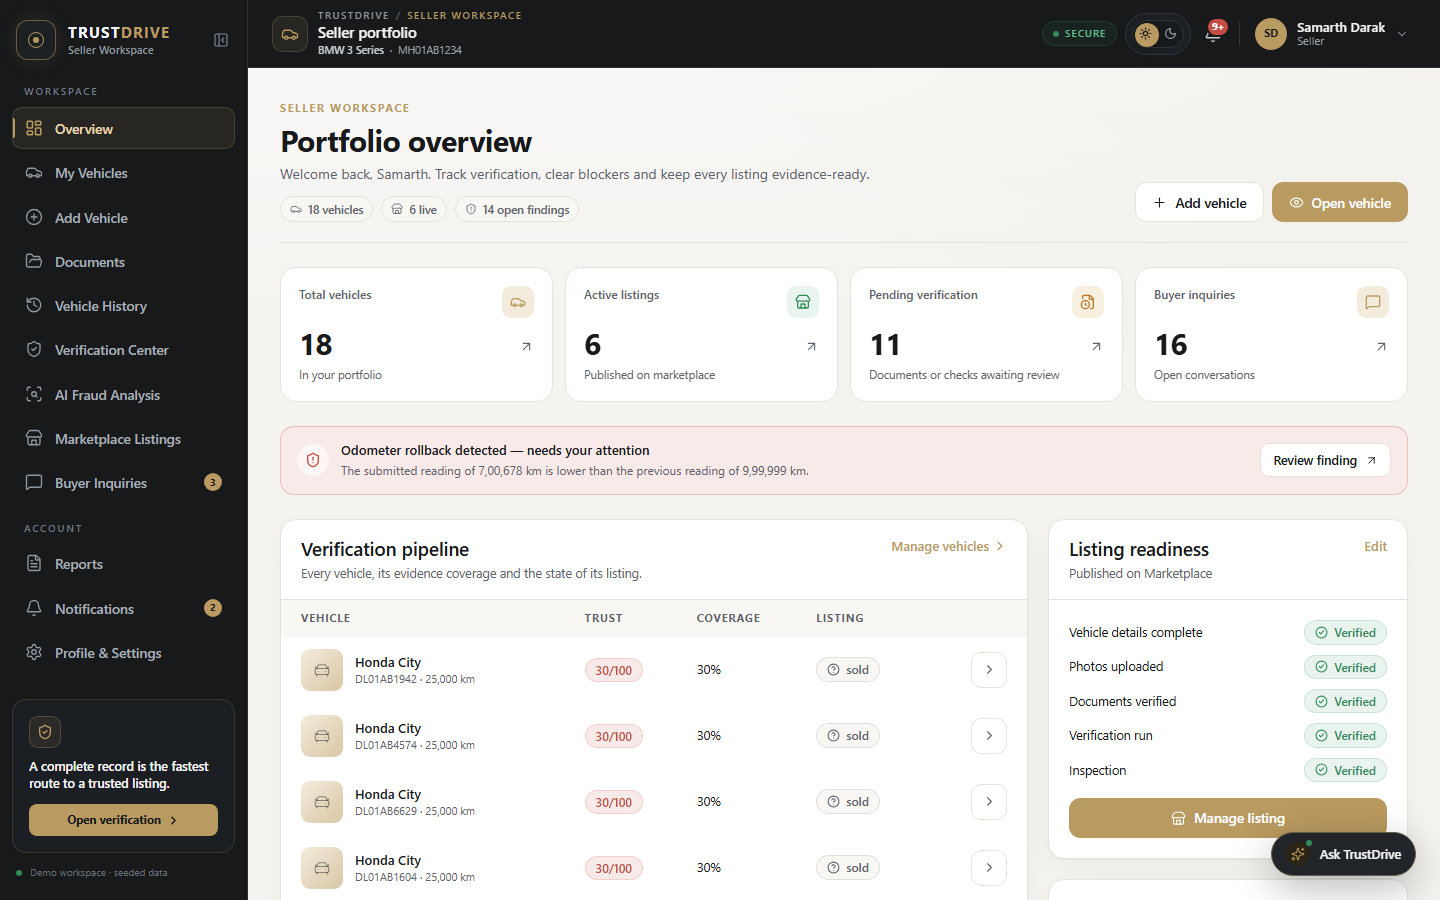
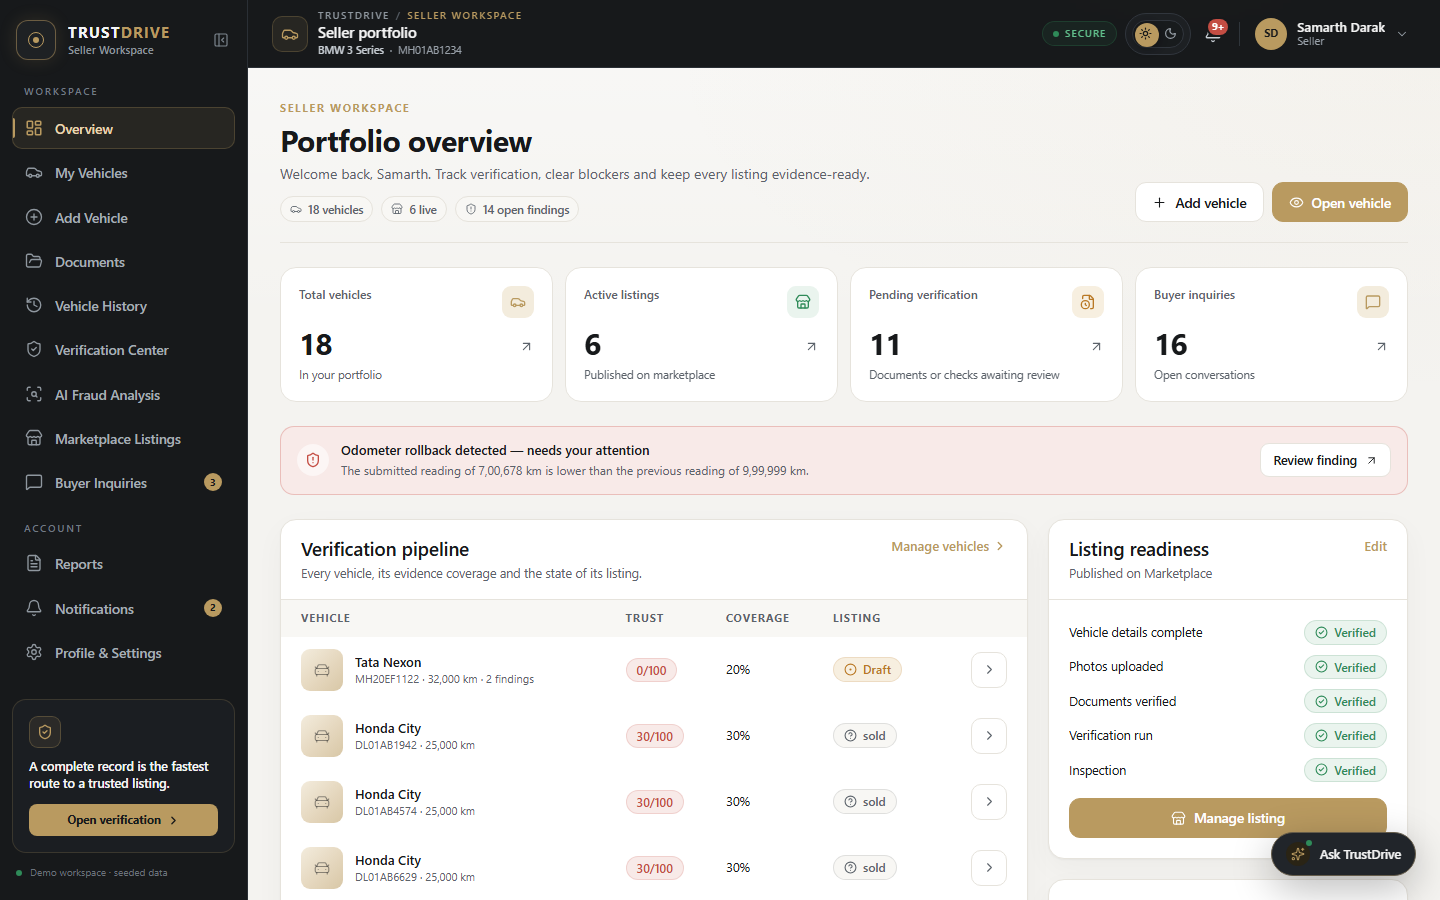
Add vehicle list and save API routes; update vehicle, compare, saved routes and DB layer

diff --git a/frontend/lib/server/db.ts b/frontend/lib/server/db.ts
@@ -1354,7 +1354,7 @@ export function createUser(u: {
 }
 export function updateUser(id: string, fields: Partial<UserRow>) {
   const allowed = ["name", "phone", "city", "seller_type", "business_name", "kyc_status", "preferences", "avatar_url", "email_verified", "twofa_enabled", "kyc_doc_key", "last_login_at"];
-  const entries = Object.entries(fields).filter(([k]) => allowed.includes(k));
+  const entries = Object.entries(fields).filter(([k, v]) => allowed.includes(k) && v !== undefined);
   if (!entries.length) return;
   const sets = entries.map(([k]) => `${k} = ?`).join(", ");
   run(`UPDATE users SET ${sets} WHERE id = ?`, ...entries.map(([, v]) => v as string | number | null), id);
@@ -1397,7 +1397,7 @@ export function updateVehicle(id: string, fields: Partial<VehicleRow>) {
     "ownership_count", "location", "km_claimed", "last_verified_km", "asking_price", "status", "base_value",
     "condition_score", "description", "condition",
   ];
-  const entries = Object.entries(fields).filter(([k]) => allowed.includes(k));
+  const entries = Object.entries(fields).filter(([k, v]) => allowed.includes(k) && v !== undefined);
   if (!entries.length) return;
   const sets = entries.map(([k]) => `${k} = ?`).join(", ");
   run(`UPDATE vehicles SET ${sets}, updated_at = ? WHERE id = ?`, ...entries.map(([, v]) => v as string | number | null), new Date().toISOString(), id);
@@ -1434,7 +1434,7 @@ export function createDocument(d: DocumentRow) {
 }
 export function updateDocument(id: string, fields: Partial<DocumentRow>) {
   const allowed = ["status", "status_reason", "consent", "version", "supersedes_id", "extracted", "verified_at", "file_name"];
-  const entries = Object.entries(fields).filter(([k]) => allowed.includes(k));
+  const entries = Object.entries(fields).filter(([k, v]) => allowed.includes(k) && v !== undefined);
   if (!entries.length) return;
   const sets = entries.map(([k]) => `${k} = ?`).join(", ");
   run(`UPDATE documents SET ${sets} WHERE id = ?`, ...entries.map(([, v]) => v as string | number | null), id);
@@ -1461,7 +1461,7 @@ export function createFinding(f: FindingRow) {
 }
 export function updateFinding(id: string, fields: Partial<FindingRow>) {
   const allowed = ["status", "explanation", "recommendation"];
-  const entries = Object.entries(fields).filter(([k]) => allowed.includes(k));
+  const entries = Object.entries(fields).filter(([k, v]) => allowed.includes(k) && v !== undefined);
   if (!entries.length) return;
   const sets = entries.map(([k]) => `${k} = ?`).join(", ");
   run(`UPDATE findings SET ${sets} WHERE id = ?`, ...entries.map(([, v]) => v as string | null), id);
@@ -1505,7 +1505,7 @@ export function createListing(l: ListingRow) {
 }
 export function updateListing(id: string, fields: Partial<ListingRow>) {
   const allowed = ["status", "headline", "description", "condition", "location", "views", "saves", "inquiries", "cover_image", "published_at"];
-  const entries = Object.entries(fields).filter(([k]) => allowed.includes(k));
+  const entries = Object.entries(fields).filter(([k, v]) => allowed.includes(k) && v !== undefined);
   if (!entries.length) return;
   const sets = entries.map(([k]) => `${k} = ?`).join(", ");
   run(`UPDATE listings SET ${sets}, updated_at = ? WHERE id = ?`, ...entries.map(([, v]) => v as string | number | null), new Date().toISOString(), id);
@@ -1559,7 +1559,7 @@ export function createInquiry(q: InquiryRow) {
 }
 export function updateInquiry(id: string, fields: Partial<InquiryRow>) {
   const allowed = ["status", "last_activity_at", "message"];
-  const entries = Object.entries(fields).filter(([k]) => allowed.includes(k));
+  const entries = Object.entries(fields).filter(([k, v]) => allowed.includes(k) && v !== undefined);
   if (!entries.length) return;
   const sets = entries.map(([k]) => `${k} = ?`).join(", ");
   run(`UPDATE inquiries SET ${sets} WHERE id = ?`, ...entries.map(([, v]) => v as string | null), id);
@@ -1728,7 +1728,7 @@ export function createReport(r: ReportRow) {
 }
 export function updateReport(id: string, fields: Partial<ReportRow>) {
   const allowed = ["status", "file_key", "generated_at", "pdf_hash", "snapshot", "version"];
-  const entries = Object.entries(fields).filter(([k]) => allowed.includes(k));
+  const entries = Object.entries(fields).filter(([k, v]) => allowed.includes(k) && v !== undefined);
   if (!entries.length) return;
   const sets = entries.map(([k]) => `${k} = ?`).join(", ");
   run(`UPDATE reports SET ${sets} WHERE id = ?`, ...entries.map(([, v]) => v as string | number | null), id);
@@ -1751,7 +1751,7 @@ export function createDispute(d: DisputeRow) {
 }
 export function updateDispute(id: string, fields: Partial<DisputeRow>) {
   const allowed = ["status", "reviewed_by", "review_note"];
-  const entries = Object.entries(fields).filter(([k]) => allowed.includes(k));
+  const entries = Object.entries(fields).filter(([k, v]) => allowed.includes(k) && v !== undefined);
   if (!entries.length) return;
   const sets = entries.map(([k]) => `${k} = ?`).join(", ");
   run(`UPDATE disputes SET ${sets} WHERE id = ?`, ...entries.map(([, v]) => v as string | null), id);

diff --git a/frontend/app/api/v1/vehicles/route.ts b/frontend/app/api/v1/vehicles/route.ts
@@ -1,0 +1,86 @@
+import { createVehicle, getAllVehicles, getVehiclesByOwner, type VehicleRow } from "@/lib/server/db";
+import { created, fail, ok, requireRole } from "@/lib/server/http";
+
+export const runtime = "nodejs";
+export const dynamic = "force-dynamic";
+
+/** GET /api/v1/vehicles — list vehicles for authenticated seller or all for admin. */
+export async function GET(req: Request) {
+  const guard = requireRole(req, "seller", "admin");
+  if (!guard.ok) return guard.response;
+  if (guard.user.role === "admin") {
+    return ok({ items: getAllVehicles() });
+  }
+  return ok({ items: getVehiclesByOwner(guard.user.sub) });
+}
+
+/** POST /api/v1/vehicles — register a new vehicle for seller. */
+export async function POST(req: Request) {
+  const guard = requireRole(req, "seller", "admin");
+  if (!guard.ok) return guard.response;
+
+  const body = (await req.json().catch(() => null)) as {
+    regNo?: string;
+    vin?: string;
+    make?: string;
+    model?: string;
+    variant?: string;
+    year?: number;
+    fuel?: string;
+    transmission?: string;
+    color?: string;
+    category?: string;
+    askingPrice?: number;
+    mileage?: number;
+    location?: string;
+    description?: string;
+  } | null;
+
+  if (!body?.regNo || !body?.vin || !body?.make || !body?.model || !body?.year) {
+    return fail(400, "VALIDATION_FAILED", "regNo, vin, make, model and year are required.");
+  }
+
+  const now = new Date().toISOString();
+  const id = `v-${Date.now()}`;
+  const trustdriveId = `TD-${body.year}-${Math.floor(1000 + Math.random() * 9000)}`;
+  const qrToken = `qr-${id}`;
+
+  const row: VehicleRow = {
+    id,
+    owner_id: guard.user.sub,
+    make: body.make,
+    model: body.model,
+    variant: body.variant || "Standard",
+    year: Number(body.year),
+    reg_no: body.regNo.toUpperCase(),
+    vin: body.vin.toUpperCase(),
+    fuel: body.fuel || "Petrol",
+    transmission: body.transmission || "Manual",
+    category: body.category || "Sedan",
+    color: body.color || "Black",
+    ownership_count: 1,
+    location: body.location || "Mumbai, Maharashtra",
+    km_claimed: Number(body.mileage) || 0,
+    last_verified_km: Number(body.mileage) || 0,
+    asking_price: Number(body.askingPrice) || 0,
+    status: "draft",
+    base_value: Number(body.askingPrice) || 0,
+    condition_score: 85,
+    trustdrive_id: trustdriveId,
+    qr_token: qrToken,
+    description: body.description || "",
+    condition: "Good",
+    created_at: now,
+    updated_at: now,
+  };
+
+  try {
+    createVehicle(row);
+    return created({ id, ...row });
+  } catch (err: any) {
+    if (err.message?.includes("UNIQUE constraint failed")) {
+      return fail(409, "DUPLICATE_VEHICLE", "A vehicle with this registration number or VIN already exists.");
+    }
+    return fail(500, "INTERNAL_ERROR", err.message || "Failed to create vehicle.");
+  }
+}

diff --git a/frontend/app/api/v1/saved/route.ts b/frontend/app/api/v1/saved/route.ts
@@ -1,5 +1,6 @@
 import { getSavedVehicles } from "@/lib/server/data";
-import { ok, requireRole } from "@/lib/server/http";
+import { bumpActivity, createSaved, deleteSaved, getListing, getListingByVehicle, getSavedRow } from "@/lib/server/db";
+import { created, fail, ok, requireRole } from "@/lib/server/http";
 
 export const runtime = "nodejs";
 export const dynamic = "force-dynamic";
@@ -9,4 +10,52 @@ export async function GET(req: Request) {
   const guard = requireRole(req, "buyer");
   if (!guard.ok) return guard.response;
   return ok(getSavedVehicles(guard.user.sub));
+}
+
+/** POST /api/v1/saved — save vehicle / listing to buyer shortlist. */
+export async function POST(req: Request) {
+  const guard = requireRole(req, "buyer");
+  if (!guard.ok) return guard.response;
+  const body = (await req.json().catch(() => null)) as { listingId?: string; vehicleId?: string } | null;
+  const vehicleId = body?.vehicleId;
+  let listingId = body?.listingId;
+  if (!listingId && vehicleId) {
+    const l = getListingByVehicle(vehicleId);
+    listingId = l?.id;
+  }
+  if (!listingId) {
+    return fail(400, "VALIDATION_FAILED", "A valid listingId or vehicleId is required.");
+  }
+  const existing = getSavedRow(guard.user.sub, listingId);
+  if (existing) return ok({ saved: true, alreadySaved: true });
+
+  const listing = getListing(listingId);
+  const now = new Date().toISOString();
+  createSaved({
+    id: `sv-${Date.now()}`,
+    buyer_id: guard.user.sub,
+    listing_id: listingId,
+    price_at_save: listing?.asking_price ?? 0,
+    list_name: "All",
+    created_at: now,
+  });
+  bumpActivity(guard.user.sub, "saved");
+  return created({ saved: true, listingId });
+}
+
+/** DELETE /api/v1/saved — remove from buyer shortlist. */
+export async function DELETE(req: Request) {
+  const guard = requireRole(req, "buyer");
+  if (!guard.ok) return guard.response;
+  const url = new URL(req.url);
+  const body = (await req.json().catch(() => null)) as { listingId?: string; vehicleId?: string } | null;
+  let listingId = url.searchParams.get("listingId") || body?.listingId;
+  const vehicleId = url.searchParams.get("vehicleId") || body?.vehicleId;
+  if (!listingId && vehicleId) {
+    const l = getListingByVehicle(vehicleId);
+    listingId = l?.id;
+  }
+  if (!listingId) return fail(400, "VALIDATION_FAILED", "listingId or vehicleId is required.");
+  deleteSaved(guard.user.sub, listingId);
+  return ok({ unsaved: true, listingId });
 }

diff --git a/frontend/app/api/v1/vehicles/[id]/route.ts b/frontend/app/api/v1/vehicles/[id]/route.ts
@@ -1,13 +1,41 @@
 import { getVehicleReport } from "@/lib/server/data";
+import { deleteVehicle, getVehicle, updateVehicle } from "@/lib/server/db";
 import { fail, ok, requireRole } from "@/lib/server/http";
 
 export const runtime = "nodejs";
 export const dynamic = "force-dynamic";
 
 export async function GET(req: Request, { params }: { params: { id: string } }) {
-  const guard = requireRole(req, "buyer", "seller");
+  const guard = requireRole(req, "buyer", "seller", "admin");
   if (!guard.ok) return guard.response;
   const report = getVehicleReport(params.id);
   if (!report) return fail(404, "NOT_FOUND", "Vehicle not found");
   return ok(report);
+}
+
+export async function PATCH(req: Request, { params }: { params: { id: string } }) {
+  const guard = requireRole(req, "seller", "admin");
+  if (!guard.ok) return guard.response;
+  const v = getVehicle(params.id);
+  if (!v) return fail(404, "NOT_FOUND", "Vehicle not found");
+  if (guard.user.role !== "admin" && v.owner_id !== guard.user.sub) {
+    return fail(403, "FORBIDDEN", "You do not own this vehicle.");
+  }
+  const body = (await req.json().catch(() => null)) as Record<string, any> | null;
+  if (!body) return fail(400, "VALIDATION_FAILED", "A JSON payload is required.");
+
+  updateVehicle(params.id, body);
+  return ok({ id: params.id, updated: true });
+}
+
+export async function DELETE(req: Request, { params }: { params: { id: string } }) {
+  const guard = requireRole(req, "seller", "admin");
+  if (!guard.ok) return guard.response;
+  const v = getVehicle(params.id);
+  if (!v) return fail(404, "NOT_FOUND", "Vehicle not found");
+  if (guard.user.role !== "admin" && v.owner_id !== guard.user.sub) {
+    return fail(403, "FORBIDDEN", "You do not own this vehicle.");
+  }
+  deleteVehicle(params.id);
+  return ok({ id: params.id, deleted: true });
 }

diff --git a/frontend/app/api/v1/vehicles/[id]/save/route.ts b/frontend/app/api/v1/vehicles/[id]/save/route.ts
@@ -1,0 +1,42 @@
+import { bumpActivity, createSaved, deleteSaved, getListing, getListingByVehicle, getSavedRow, getVehicle } from "@/lib/server/db";
+import { created, fail, ok, requireRole } from "@/lib/server/http";
+
+export const runtime = "nodejs";
+export const dynamic = "force-dynamic";
+
+/** POST /api/v1/vehicles/:id/save — toggle/save vehicle. */
+export async function POST(req: Request, { params }: { params: { id: string } }) {
+  const guard = requireRole(req, "buyer");
+  if (!guard.ok) return guard.response;
+  const vehicle = getVehicle(params.id);
+  if (!vehicle) return fail(404, "NOT_FOUND", "Vehicle not found.");
+
+  let listing = getListingByVehicle(params.id);
+  const listingId = listing?.id || `l-${params.id}`;
+  const existing = getSavedRow(guard.user.sub, listingId);
+  if (existing) {
+    return ok({ saved: true, alreadySaved: true });
+  }
+
+  const now = new Date().toISOString();
+  createSaved({
+    id: `sv-${Date.now()}`,
+    buyer_id: guard.user.sub,
+    listing_id: listingId,
+    price_at_save: vehicle.asking_price ?? 0,
+    list_name: "All",
+    created_at: now,
+  });
+  bumpActivity(guard.user.sub, "saved");
+  return created({ saved: true, listingId });
+}
+
+/** DELETE /api/v1/vehicles/:id/save — unsave vehicle. */
+export async function DELETE(req: Request, { params }: { params: { id: string } }) {
+  const guard = requireRole(req, "buyer");
+  if (!guard.ok) return guard.response;
+  const listing = getListingByVehicle(params.id);
+  const listingId = listing?.id || `l-${params.id}`;
+  deleteSaved(guard.user.sub, listingId);
+  return ok({ unsaved: true, listingId });
+}

diff --git a/frontend/app/api/v1/vehicles/[id]/history/route.ts b/frontend/app/api/v1/vehicles/[id]/history/route.ts
@@ -27,9 +27,9 @@ export async function POST(req: Request, { params }: { params: { id: string } })
   const body = (await req.json().catch(() => null)) as { category?: string; date?: string; km?: number; title?: string; description?: string } | null;
   if (!body) return fail(400, "VALIDATION_FAILED", "A JSON body is required.");
   const result = addHistoryForVehicle(guard.user.sub, params.id, {
-    category: body.category ?? "service",
-    date: body.date ?? "",
-    km: body.km,
+    category: body.category ?? (body as any).eventType ?? "service",
+    date: body.date ?? (body as any).eventDate ?? "",
+    km: body.km ?? (body as any).mileage,
     title: body.title ?? "",
     description: body.description,
   });

diff --git a/frontend/app/api/v1/compare/route.ts b/frontend/app/api/v1/compare/route.ts
@@ -8,8 +8,8 @@ export const dynamic = "force-dynamic";
 export async function POST(req: Request) {
   const guard = requireRole(req, "buyer");
   if (!guard.ok) return guard.response;
-  const body = (await req.json().catch(() => null)) as { listingIds?: string[]; ids?: string[] } | null;
-  const ids = body?.listingIds ?? body?.ids ?? [];
+  const body = (await req.json().catch(() => null)) as { listingIds?: string[]; ids?: string[]; vehicleIds?: string[] } | null;
+  const ids = body?.listingIds ?? body?.ids ?? body?.vehicleIds ?? [];
   if (!Array.isArray(ids) || ids.length < 2 || ids.length > 4) {
     return fail(400, "VALIDATION_FAILED", "Select 2 to 4 vehicles to compare.");
   }

diff --git a/frontend/app/api/v1/vehicles/[id]/damage/route.ts b/frontend/app/api/v1/vehicles/[id]/damage/route.ts
@@ -22,7 +22,7 @@ export async function POST(req: Request, { params }: { params: { id: string } })
     | null;
   if (!body) return fail(400, "VALIDATION_FAILED", "A JSON body is required.");
   const result = addDamageForVehicle(guard.user.sub, params.id, {
-    zoneId: body.zoneId ?? "",
+    zoneId: body.zoneId ?? (body as any).componentId ?? "",
     description: body.description ?? "",
     severity: body.severity ?? "Minor",
     repairStatus: body.repairStatus ?? "Not repaired",
